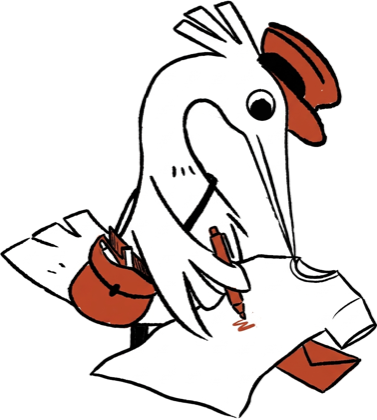
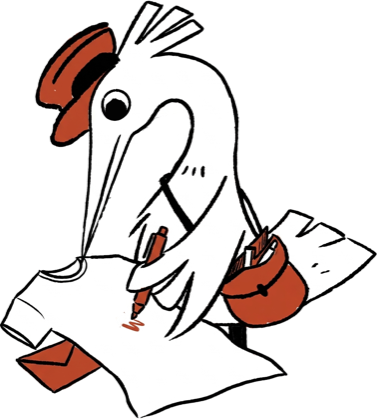
Swap the stork drawing, and tidy the detail and step-3 layouts
- New stork illustration on the instruction screen.
- Stamp detail: actions sit at the bottom of the screen, matching the
  capture result screen. `my-auto` on the stamp and its details splits
  the leftover height above and below them, so the actions reach the
  bottom without the tall void that opened up between them and the
  stamp before.
- Instruction screen: nudge the t-shirt right of centre — it's drawn
  left of the middle of its own file, so centring the image box left
  the shirt itself looking off inside the ring — and stop it being
  selectable or draggable.
- Centre the option block, which was pinned to the left margin.

diff --git a/src/components/StampDetail.tsx b/src/components/StampDetail.tsx
@@ -1,35 +1,35 @@
-import { useEffect, useState } from 'react'
-import type { Ref } from 'react'
-import Stamp from './Stamp'
-import StampDeco from './StampDeco'
-import type { Stamp as StampType } from '../lib/types'
-import { formatStampDate } from '../lib/dates'
+import { useEffect, useState } from "react";
+import type { Ref } from "react";
+import Stamp from "./Stamp";
+import StampDeco from "./StampDeco";
+import type { Stamp as StampType } from "../lib/types";
+import { formatStampDate } from "../lib/dates";
 
 /** How wide the stamp sits when opened — the target of the scale-up. */
-export const DETAIL_STAMP_WIDTH = 'min(58vw, 240px)'
+export const DETAIL_STAMP_WIDTH = "min(58vw, 240px)";
 
 /** How long the backdrop takes to fade in or out. */
-const BACKDROP_MS = 300
+const BACKDROP_MS = 300;
 
 type StampDetailProps = {
-  stamp: StampType
+  stamp: StampType;
   /**
    * Wraps the stamp. The collection screen writes transform/transition
    * straight onto this node to run the open and close flights, so nothing
    * here should manage those properties.
    */
-  carrierRef: Ref<HTMLDivElement>
+  carrierRef: Ref<HTMLDivElement>;
   /** True once the stamp has finished scaling up — gates the text and actions. */
-  ready: boolean
+  ready: boolean;
   /** True while flying back to the grid — fades the backdrop out ahead of unmount. */
-  closing: boolean
-  onClose: () => void
-  onSend: (stamp: StampType) => void
-  onSave: (patch: { date: string; location: string }) => void
-  onDelete: () => void
-}
+  closing: boolean;
+  onClose: () => void;
+  onSend: (stamp: StampType) => void;
+  onSave: (patch: { date: string; location: string }) => void;
+  onDelete: () => void;
+};
 
-type Mode = 'view' | 'edit' | 'confirm-delete'
+type Mode = "view" | "edit" | "confirm-delete";
 
 /**
  * The opened stamp: the same card from the grid, scaled up, with its details
@@ -46,26 +46,29 @@ export default function StampDetail({
   onSave,
   onDelete,
 }: StampDetailProps) {
-  const [mode, setMode] = useState<Mode>('view')
-  const [date, setDate] = useState(stamp.date)
-  const [location, setLocation] = useState(stamp.location)
+  const [mode, setMode] = useState<Mode>("view");
+  const [date, setDate] = useState(stamp.date);
+  const [location, setLocation] = useState(stamp.location);
   /** Last committed values, so Cancel can restore them after an edit. */
-  const [saved, setSaved] = useState({ date: stamp.date, location: stamp.location })
+  const [saved, setSaved] = useState({
+    date: stamp.date,
+    location: stamp.location,
+  });
   /**
    * Starts false on the very first paint, then flips true a tick later —
    * that gap is what gives the backdrop's opacity transition below something
    * to animate from, so opening fades it in instead of it just appearing.
    */
-  const [mounted, setMounted] = useState(false)
+  const [mounted, setMounted] = useState(false);
 
-  useEffect(() => setMounted(true), [])
+  useEffect(() => setMounted(true), []);
 
   // Visible on the same beat as the backdrop, in both directions — only
   // whether it can be tapped still waits on `ready`, so nothing responds to
   // a stray touch while the stamp is still mid-flight to its resting spot.
-  const fade = `transition-opacity duration-300 ${mounted && !closing ? 'opacity-100' : 'opacity-0'} ${
-    ready ? '' : 'pointer-events-none'
-  }`
+  const fade = `transition-opacity duration-300 ${mounted && !closing ? "opacity-100" : "opacity-0"} ${
+    ready ? "" : "pointer-events-none"
+  }`;
 
   return (
     <div className="absolute inset-0 z-30 flex flex-col overflow-y-auto px-6 pb-10 pt-[max(1.5rem,env(safe-area-inset-top))]">
@@ -99,69 +102,90 @@ export default function StampDetail({
         a close tap once settled — a lightbox reads as dismissable by its own
         image, not just the button above it.
       */}
-      <div
-        ref={carrierRef}
-        className="mx-auto mt-8 w-fit cursor-pointer"
-        style={{ visibility: 'hidden' }}
-        onClick={ready ? onClose : undefined}
-      >
-        <Stamp image={stamp.image} animate={false} width={DETAIL_STAMP_WIDTH} />
-      </div>
-
       {/*
+        `my-auto` splits the leftover height above and below this group, so the
+        actions land at the bottom of the screen without a single tall void
+        opening up between them and the stamp.
+      */}
+      <div className="my-auto">
+        <div
+          ref={carrierRef}
+          className="mx-auto mt-8 w-fit cursor-pointer"
+          style={{ visibility: "hidden" }}
+          onClick={ready ? onClose : undefined}
+        >
+          <Stamp
+            image={stamp.image}
+            animate={false}
+            width={DETAIL_STAMP_WIDTH}
+          />
+        </div>
+
+        {/*
         Shows the locally-held values, not the stamp prop — an edit is saved
         straight to storage, so re-fetching it into this overlay would restart
         the open flight for no reason.
       */}
-      {mode === 'view' && (
-        <div className={`mt-8 text-center ${fade}`}>
-          <p className="font-headline text-[28px] leading-[1.1] font-medium tracking-[-0.02em] text-sun">
-            {formatStampDate(date)}
-          </p>
-          {location && <p className="mt-2 text-[15px] leading-[22px] text-white/85">{location}</p>}
-        </div>
-      )}
+        {mode === "view" && (
+          <div className={`mt-8 text-center ${fade}`}>
+            <p className="font-headline text-[28px] leading-[1.1] font-medium tracking-[-0.02em] text-sun">
+              {formatStampDate(date)}
+            </p>
+            {location && (
+              <p className="mt-2 text-[15px] leading-[22px] text-white/85">
+                {location}
+              </p>
+            )}
+          </div>
+        )}
 
-      {mode === 'edit' && (
-        <div className={`mt-8 ${fade}`}>
-          <label className="label block text-left text-white/70" htmlFor="edit-date">
-            DATE
-          </label>
-          <input
-            id="edit-date"
-            type="date"
-            value={date}
-            onChange={(e) => setDate(e.target.value)}
-            className="mt-2 w-full rounded-xl border border-white/40 bg-white/90 px-4 py-3 text-[16px] text-ink"
-          />
+        {mode === "edit" && (
+          <div className={`mt-8 ${fade}`}>
+            <label
+              className="label block text-left text-white/70"
+              htmlFor="edit-date"
+            >
+              DATE
+            </label>
+            <input
+              id="edit-date"
+              type="date"
+              value={date}
+              onChange={(e) => setDate(e.target.value)}
+              className="mt-2 w-full rounded-xl border border-white/40 bg-white/90 px-4 py-3 text-[16px] text-ink"
+            />
 
-          <label className="label mt-5 block text-left text-white/70" htmlFor="edit-location">
-            LOCATION
-          </label>
-          <input
-            id="edit-location"
-            type="text"
-            value={location}
-            onChange={(e) => setLocation(e.target.value)}
-            placeholder="Where did you find it?"
-            className="mt-2 w-full rounded-xl border border-white/40 bg-white/90 px-4 py-3 text-[16px] text-ink placeholder:text-ink/35"
-          />
-        </div>
-      )}
+            <label
+              className="label mt-5 block text-left text-white/70"
+              htmlFor="edit-location"
+            >
+              LOCATION
+            </label>
+            <input
+              id="edit-location"
+              type="text"
+              value={location}
+              onChange={(e) => setLocation(e.target.value)}
+              placeholder="Where did you find it?"
+              className="mt-2 w-full rounded-xl border border-white/40 bg-white/90 px-4 py-3 text-[16px] text-ink placeholder:text-ink/35"
+            />
+          </div>
+        )}
 
-      {mode === 'confirm-delete' && (
-        <div className={`mt-8 text-center ${fade}`}>
-          <p className="font-headline text-[22px] leading-[1.15] font-medium tracking-[-0.02em] text-sun">
-            Delete this stamp?
-          </p>
-          <p className="mx-auto mt-2 max-w-[28ch] text-[15px] leading-[22px] text-white/85">
-            It leaves your collection for good — this can't be undone.
-          </p>
-        </div>
-      )}
+        {mode === "confirm-delete" && (
+          <div className={`mt-8 text-center ${fade}`}>
+            <p className="font-headline text-[22px] leading-[1.15] font-medium tracking-[-0.02em] text-sun">
+              Delete this stamp?
+            </p>
+            <p className="mx-auto mt-2 max-w-[28ch] text-[15px] leading-[22px] text-white/85">
+              It leaves your collection for good — this can't be undone.
+            </p>
+          </div>
+        )}
+      </div>
 
-      <div className={`mt-auto flex flex-col gap-3 pt-8 ${fade}`}>
-        {mode === 'view' && (
+      <div className={`flex flex-col gap-3 pt-8 ${fade}`}>
+        {mode === "view" && (
           <>
             <button
               type="button"
@@ -173,14 +197,14 @@ export default function StampDetail({
             <div className="flex gap-3">
               <button
                 type="button"
-                onClick={() => setMode('edit')}
+                onClick={() => setMode("edit")}
                 className="label flex-1 rounded-full border-[0.5px] border-sun py-4 text-sun active:scale-[0.98]"
               >
                 EDIT
               </button>
               <button
                 type="button"
-                onClick={() => setMode('confirm-delete')}
+                onClick={() => setMode("confirm-delete")}
                 className="label flex-1 rounded-full border-[0.5px] border-white/50 py-4 text-white/80 active:scale-[0.98]"
               >
                 DELETE
@@ -189,16 +213,16 @@ export default function StampDetail({
           </>
         )}
 
-        {mode === 'edit' && (
+        {mode === "edit" && (
           <>
             <button
               type="button"
               onClick={() => {
-                const next = { date, location: location.trim() }
-                setLocation(next.location)
-                setSaved(next)
-                onSave(next)
-                setMode('view')
+                const next = { date, location: location.trim() };
+                setLocation(next.location);
+                setSaved(next);
+                onSave(next);
+                setMode("view");
               }}
               className="label w-full rounded-full bg-sun py-4 text-ink active:scale-[0.98]"
             >
@@ -208,9 +232,9 @@ export default function StampDetail({
               type="button"
               onClick={() => {
                 // Back to whatever was last saved, discarding this edit.
-                setDate(saved.date)
-                setLocation(saved.location)
-                setMode('view')
+                setDate(saved.date);
+                setLocation(saved.location);
+                setMode("view");
               }}
               className="label w-full rounded-full border-[0.5px] border-sun py-4 text-sun active:scale-[0.98]"
             >
@@ -219,7 +243,7 @@ export default function StampDetail({
           </>
         )}
 
-        {mode === 'confirm-delete' && (
+        {mode === "confirm-delete" && (
           <>
             <button
               type="button"
@@ -230,7 +254,7 @@ export default function StampDetail({
             </button>
             <button
               type="button"
-              onClick={() => setMode('view')}
+              onClick={() => setMode("view")}
               className="label w-full rounded-full border-[0.5px] border-sun py-4 text-sun active:scale-[0.98]"
             >
               KEEP IT
@@ -239,5 +263,5 @@ export default function StampDetail({
         )}
       </div>
     </div>
-  )
+  );
 }

diff --git a/src/screens/About.tsx b/src/screens/About.tsx
@@ -303,10 +303,17 @@ export default function About() {
             alt=""
             className="absolute inset-0 h-full w-full animate-[spin_18s_linear_infinite]"
           />
+          {/*
+            Nudged right of centre on purpose: the shirt is drawn left of the
+            middle of its own file, so centring the image box leaves the shirt
+            itself looking off inside the ring. Not selectable or draggable —
+            it's part of the illustration, not content to pick up.
+          */}
           <img
             src={tshirtPhoto}
             alt="A t-shirt printed with your stamp design"
-            className="absolute top-1/2 left-1/2 w-[62%] -translate-x-1/2 -translate-y-1/2"
+            draggable={false}
+            className="absolute top-1/2 left-[calc(50%+10px)] w-[62%] -translate-x-1/2 -translate-y-1/2 select-none"
           />
         </Reveal>
 
